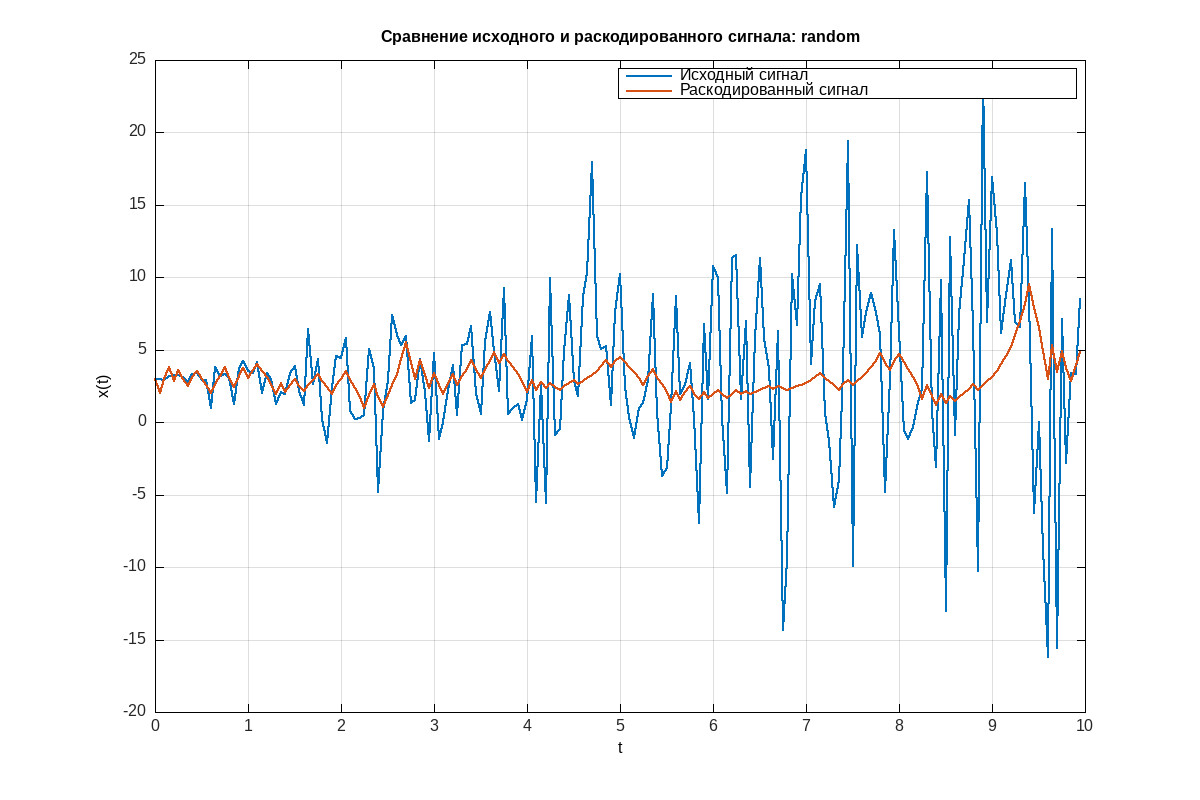
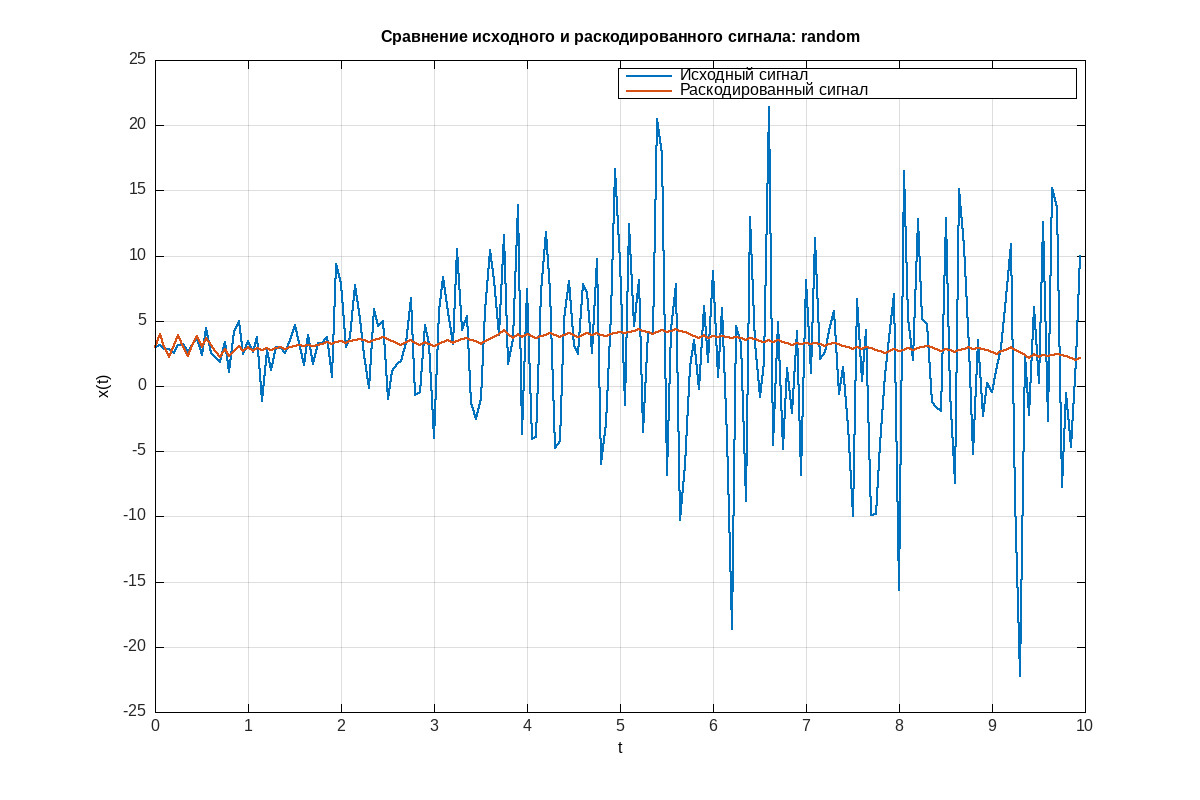
add calc error

diff --git a/cpp/src/drawing/drawer.cpp b/cpp/src/drawing/drawer.cpp
@@ -1,5 +1,5 @@
 #include "drawer.hpp"
-#include "data/encoded_image_size.hpp"
+#include "metrics/metrics.hpp"
 
 namespace adaptive{
 
@@ -280,6 +280,7 @@ void Drawer::draw_zooming(const SampledSignal& original_values, const std::strin
 }
 
 void Drawer::draw_image_zooming(const ColorImageMatrices& original_values){
+    std::cerr << "\n\nADAPTIVE CODING WITH ZOOMING.\n";
     std::filesystem::path output_directry = m_output_directory_image / "zooming";
 
     std::filesystem::create_directories(output_directry);
@@ -304,11 +305,14 @@ void Drawer::draw_image_zooming(const ColorImageMatrices& original_values){
     const auto encoded_values =
         coder.encode_zooming(original_values);
 
-    std::size_t total_encoded_size = encoded_color_image_size_bytes(encoded_values);
-    std::cerr << "\nTotal encoded size is : " << total_encoded_size << "\n\n";
+    std::size_t total_encoded_size = Metrics::encoded_color_image_size_bytes(encoded_values);
+    std::cerr << "Total encoded size is : " << total_encoded_size << "\n";
 
     const auto decoded_values =
         decoder.decode_zooming(encoded_values);
+
+    long double mse = Metrics::calc_mse(original_values, decoded_values);
+    std::cerr << "MSE: " << mse << "\n\n";
 
     const std::string filename =
         "comparison.png";
@@ -325,6 +329,7 @@ void Drawer::draw_image_zooming(const ColorImageMatrices& original_values){
 }
 
 void Drawer::draw_image_fixed(const ColorImageMatrices& original_values){
+    std::cerr << "\nADAPTIVE CODING WITH FIXED STEP.\n";
     std::filesystem::path output_directry = m_output_directory_image / "fixed";
 
     std::filesystem::create_directories(output_directry);
@@ -349,8 +354,14 @@ void Drawer::draw_image_fixed(const ColorImageMatrices& original_values){
     const auto encoded_values =
         coder.encode_fixed(original_values);
 
+    std::size_t total_encoded_size = Metrics::encoded_color_image_size_bytes(encoded_values);
+    std::cerr << "Total encoded size is : " << total_encoded_size << "\n";
+
     const auto decoded_values =
         decoder.decode_fixed(encoded_values);
+
+    long double mse = Metrics::calc_mse(original_values, decoded_values);
+    std::cerr << "MSE: " << mse << "\n\n";
 
     const std::string filename =
         "comparison.png";
@@ -367,6 +378,7 @@ void Drawer::draw_image_fixed(const ColorImageMatrices& original_values){
 }
 
 void Drawer::draw_image_grow_factor(const ColorImageMatrices& original_values){
+    std::cerr << "\nADAPTIVE CODING WITH GROW FACTOR.\n";
     std::filesystem::path output_directry = m_output_directory_image / "grow_factor";
 
     std::filesystem::create_directories(output_directry);
@@ -391,8 +403,14 @@ void Drawer::draw_image_grow_factor(const ColorImageMatrices& original_values){
     const auto encoded_values =
         coder.encode_grow_factor(original_values);
 
+    std::size_t total_encoded_size = Metrics::encoded_color_image_size_bytes(encoded_values);
+    std::cerr << "Total encoded size is : " << total_encoded_size << "\n";
+
     const auto decoded_values =
         decoder.decode_grow_factor(encoded_values);
+    
+    long double mse = Metrics::calc_mse(original_values, decoded_values);
+    std::cerr << "MSE: " << mse << "\n\n";
 
     const std::string filename =
         "comparison.png";

diff --git a/cpp/src/metrics/metrics.cpp b/cpp/src/metrics/metrics.cpp
@@ -1,0 +1,63 @@
+#include "metrics.hpp"
+
+#include <stdexcept>
+
+namespace adaptive{
+
+std::size_t Metrics::encoded_image_size_bytes(const EncodedImage& image) {
+    std::size_t total_size = 0;
+    for (const EncodedData& row : image.rows) {
+        total_size += sizeof(row.initial_value);
+        total_size += row.codes.size() * sizeof(std::int8_t);
+    }
+    return total_size;
+}
+
+std::size_t Metrics::encoded_color_image_size_bytes(const EncodedColorImage& image) {
+    return encoded_image_size_bytes(image.blue) + encoded_image_size_bytes(image.green) + encoded_image_size_bytes(image.red);
+}
+
+double Metrics::calc_mse(const ColorImageMatrices& original, const ColorImageMatrices& decoded){
+    if (original.blue.empty()) {
+        if (decoded.blue.empty()) {
+            return 0.0;
+        }
+        throw std::invalid_argument("Original and decoded images have different dimensions");
+    }
+    const std::size_t height = original.blue.size();
+    if (original.green.size() != height ||
+        original.red.size() != height ||
+        decoded.blue.size() != height ||
+        decoded.green.size() != height ||
+        decoded.red.size() != height)
+    {
+        throw std::invalid_argument("Image channels have different heights");
+    }
+    long double squared_error_sum = 0.0L;
+    std::size_t sample_count = 0;
+    for (std::size_t row = 0; row < height; ++row) {
+        const std::size_t width = original.blue[row].size();
+        if (original.green[row].size() != width ||
+            original.red[row].size() != width ||
+            decoded.blue[row].size() != width ||
+            decoded.green[row].size() != width ||
+            decoded.red[row].size() != width)
+        {
+            throw std::invalid_argument("Image channels have different row widths");
+        }
+        for (std::size_t column = 0; column < width; ++column){
+            const long double red_error = static_cast<long double>(original.red[row][column]) - static_cast<long double>(decoded.red[row][column]);
+            const long double green_error = static_cast<long double>(original.green[row][column]) - static_cast<long double>(decoded.green[row][column]);
+            const long double blue_error = static_cast<long double>(original.blue[row][column]) - static_cast<long double>(decoded.blue[row][column]);
+            squared_error_sum += red_error * red_error + green_error * green_error + blue_error * blue_error;
+            sample_count += 3;
+        }
+    }
+    if (sample_count == 0) {
+        return 0.0;
+    }
+    return static_cast<double>(squared_error_sum / static_cast<long double>(sample_count));
+}
+
+
+} // namespace adaptive

diff --git a/cpp/src/metrics/metrics.hpp b/cpp/src/metrics/metrics.hpp
@@ -1,0 +1,18 @@
+#pragma once
+
+#include "data/encoded_image.hpp"
+
+namespace adaptive{
+
+class Metrics{
+public:
+    static std::size_t encoded_color_image_size_bytes(const EncodedColorImage& image);
+
+    static double calc_mse(const ColorImageMatrices& original, const ColorImageMatrices& decoded);
+
+private:
+    static std::size_t encoded_image_size_bytes(const EncodedImage& image);
+
+};
+
+} // namespace adaptive
